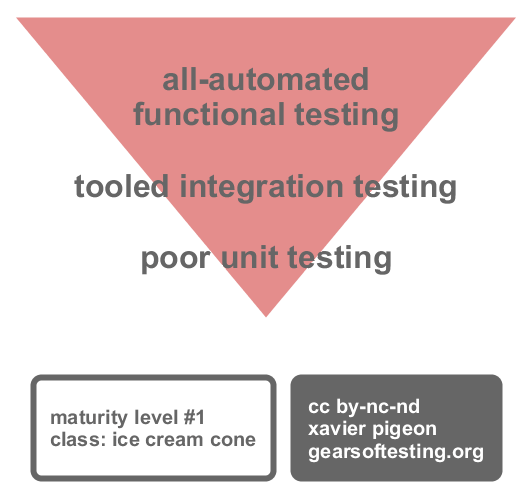
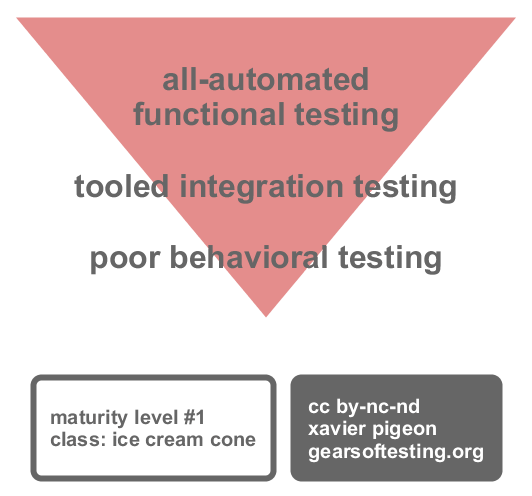
[Body of knowledge] Group unit testing and business acceptance testing in behavioral tests.

Changed region(s): [[0.1504, 0.4839, 0.8421, 0.5746]]

diff --git a/legacy-tests.html b/legacy-tests.html
@@ -58,7 +58,7 @@
 
 </section>
 
-<section class="engine"><a href="https://mobiri.se/b">how to create a site</a></section><section class="mbr-section content4 cid-qZnWIS0ri7" id="content4-1m">
+<section class="engine"><a href="https://mobiri.se/l">free web templates</a></section><section class="mbr-section content4 cid-qZnWIS0ri7" id="content4-1m">
 
     
 
@@ -142,7 +142,7 @@
 
     <figure class="mbr-figure container">
             <div class="image-block" style="width: 80%;">
-                <img src="assets/images/maturity-levels-of-testing-2374x2004.png" width="1400" alt="" title="">
+                <img src="assets/images/maturity-levels-of-testing-1776x1499.png" width="1400" alt="Maturity levels of testing" title="">
                 
             </div>
     </figure>
@@ -153,7 +153,7 @@
     
 
     <div class="container">
-        <div><!-- Filter --><div class="mbr-gallery-filter container gallery-filter-active"><ul buttons="0"><li class="mbr-gallery-filter-all"><a class="btn btn-md btn-primary-outline active display-7" href="">All</a></li></ul></div><!-- Gallery --><div class="mbr-gallery-row"><div class="mbr-gallery-layout-default"><div><div><div class="mbr-gallery-item mbr-gallery-item--p2" data-video-url="false" data-tags="Anti-patterns"><div href="#lb-gallery2-1k" data-slide-to="0" data-toggle="modal"><img src="assets/images/level-0-ice-cream-cone-532x496-532x496.png" alt="Maturity level #0: ice cream cone" title="Maturity level #0: ice cream cone"><span class="icon-focus"></span></div></div><div class="mbr-gallery-item mbr-gallery-item--p2" data-video-url="false" data-tags="Anti-patterns"><div href="#lb-gallery2-1k" data-slide-to="1" data-toggle="modal"><img src="assets/images/level-1-ice-cream-cone-532x496-532x496.png" alt="Maturity level #1: ice cream cone" title="Maturity level #1: ice cream cone"><span class="icon-focus"></span></div></div><div class="mbr-gallery-item mbr-gallery-item--p2" data-video-url="false" data-tags="Anti-patterns"><div href="#lb-gallery2-1k" data-slide-to="2" data-toggle="modal"><img src="assets/images/level-1-sand-timer-532x494-532x494.png" alt="Maturity level #1: sand timer" title="Maturity level #1: sand timer"><span class="icon-focus"></span></div></div><div class="mbr-gallery-item mbr-gallery-item--p2" data-video-url="false" data-tags="Anti-patterns"><div href="#lb-gallery2-1k" data-slide-to="3" data-toggle="modal"><img src="assets/images/level-1-tennis-court-534x494-534x494.png" alt="Maturity level #1: tennis court" title="Maturity level #1: tennis court"><span class="icon-focus"></span></div></div><div class="mbr-gallery-item mbr-gallery-item--p2" data-video-url="false" data-tags="Patterns"><div href="#lb-gallery2-1k" data-slide-to="4" data-toggle="modal"><img src="assets/images/level-2-pyramid-532x494-532x494.png" alt="Maturity level #2: pyramid" title="Maturity level #2: pyramid"><span class="icon-focus"></span></div></div><div class="mbr-gallery-item mbr-gallery-item--p2" data-video-url="false" data-tags="Patterns"><div href="#lb-gallery2-1k" data-slide-to="5" data-toggle="modal"><img src="assets/images/level-3-pyramid-632x546-632x546.png" alt="Maturity level #3: pyramid" title="Maturity level #3: pyramid"><span class="icon-focus"></span></div></div></div></div><div class="clearfix"></div></div></div><!-- Lightbox --><div data-app-prevent-settings="" class="mbr-slider modal fade carousel slide" tabindex="-1" data-keyboard="true" data-interval="false" id="lb-gallery2-1k"><div class="modal-dialog"><div class="modal-content"><div class="modal-body"><div class="carousel-inner"><div class="carousel-item"><img src="assets/images/level-0-ice-cream-cone-532x496.png" alt="Maturity level #0: ice cream cone" title="Maturity level #0: ice cream cone"></div><div class="carousel-item"><img src="assets/images/level-1-ice-cream-cone-532x496.png" alt="Maturity level #1: ice cream cone" title="Maturity level #1: ice cream cone"></div><div class="carousel-item"><img src="assets/images/level-1-sand-timer-532x494.png" alt="Maturity level #1: sand timer" title="Maturity level #1: sand timer"></div><div class="carousel-item"><img src="assets/images/level-1-tennis-court-534x494.png" alt="Maturity level #1: tennis court" title="Maturity level #1: tennis court"></div><div class="carousel-item"><img src="assets/images/level-2-pyramid-532x494.png" alt="Maturity level #2: pyramid" title="Maturity level #2: pyramid"></div><div class="carousel-item active"><img src="assets/images/level-3-pyramid-632x546.png" alt="Maturity level #3: pyramid" title="Maturity level #3: pyramid"></div></div><a class="carousel-control carousel-control-prev" role="button" data-slide="prev" href="#lb-gallery2-1k"><span class="mbri-left mbr-iconfont" aria-hidden="true"></span><span class="sr-only">Previous</span></a><a class="carousel-control carousel-control-next" role="button" data-slide="next" href="#lb-gallery2-1k"><span class="mbri-right mbr-iconfont" aria-hidden="true"></span><span class="sr-only">Next</span></a><a class="close" href="#" role="button" data-dismiss="modal"><span class="sr-only">Close</span></a></div></div></div></div></div>
+        <div><!-- Filter --><div class="mbr-gallery-filter container gallery-filter-active"><ul buttons="0"><li class="mbr-gallery-filter-all"><a class="btn btn-md btn-primary-outline active display-7" href="">All</a></li></ul></div><!-- Gallery --><div class="mbr-gallery-row"><div class="mbr-gallery-layout-default"><div><div><div class="mbr-gallery-item mbr-gallery-item--p2" data-video-url="false" data-tags="Anti-patterns"><div href="#lb-gallery2-1k" data-slide-to="0" data-toggle="modal"><img src="assets/images/level-0-ice-cream-cone-532x496-532x496.png" alt="Maturity level #0: ice cream cone" title="Maturity level #0: ice cream cone"><span class="icon-focus"></span></div></div><div class="mbr-gallery-item mbr-gallery-item--p2" data-video-url="false" data-tags="Anti-patterns"><div href="#lb-gallery2-1k" data-slide-to="1" data-toggle="modal"><img src="assets/images/level-1-ice-cream-cone-532x496-532x496.png" alt="Maturity level #1: ice cream cone" title="Maturity level #1: ice cream cone"><span class="icon-focus"></span></div></div><div class="mbr-gallery-item mbr-gallery-item--p2" data-video-url="false" data-tags="Anti-patterns"><div href="#lb-gallery2-1k" data-slide-to="2" data-toggle="modal"><img src="assets/images/level-1-sand-timer-532x494-532x494.png" alt="Maturity level #1: sand timer" title="Maturity level #1: sand timer"><span class="icon-focus"></span></div></div><div class="mbr-gallery-item mbr-gallery-item--p2" data-video-url="false" data-tags="Anti-patterns"><div href="#lb-gallery2-1k" data-slide-to="3" data-toggle="modal"><img src="assets/images/level-1-tennis-court-534x496-534x496.png" alt="Maturity level #1: tennis court" title="Maturity level #1: tennis court"><span class="icon-focus"></span></div></div><div class="mbr-gallery-item mbr-gallery-item--p2" data-video-url="false" data-tags="Patterns"><div href="#lb-gallery2-1k" data-slide-to="4" data-toggle="modal"><img src="assets/images/level-2-pyramid-532x494-532x494.png" alt="Maturity level #2: pyramid" title="Maturity level #2: pyramid"><span class="icon-focus"></span></div></div><div class="mbr-gallery-item mbr-gallery-item--p2" data-video-url="false" data-tags="Patterns"><div href="#lb-gallery2-1k" data-slide-to="5" data-toggle="modal"><img src="assets/images/level-3-pyramid-632x546-632x546.png" alt="Maturity level #3: pyramid" title="Maturity level #3: pyramid"><span class="icon-focus"></span></div></div></div></div><div class="clearfix"></div></div></div><!-- Lightbox --><div data-app-prevent-settings="" class="mbr-slider modal fade carousel slide" tabindex="-1" data-keyboard="true" data-interval="false" id="lb-gallery2-1k"><div class="modal-dialog"><div class="modal-content"><div class="modal-body"><div class="carousel-inner"><div class="carousel-item"><img src="assets/images/level-0-ice-cream-cone-532x496.png" alt="Maturity level #0: ice cream cone" title="Maturity level #0: ice cream cone"></div><div class="carousel-item"><img src="assets/images/level-1-ice-cream-cone-532x496.png" alt="Maturity level #1: ice cream cone" title="Maturity level #1: ice cream cone"></div><div class="carousel-item"><img src="assets/images/level-1-sand-timer-532x494.png" alt="Maturity level #1: sand timer" title="Maturity level #1: sand timer"></div><div class="carousel-item"><img src="assets/images/level-1-tennis-court-534x496.png" alt="Maturity level #1: tennis court" title="Maturity level #1: tennis court"></div><div class="carousel-item"><img src="assets/images/level-2-pyramid-532x494.png" alt="Maturity level #2: pyramid" title="Maturity level #2: pyramid"></div><div class="carousel-item active"><img src="assets/images/level-3-pyramid-632x546.png" alt="Maturity level #3: pyramid" title="Maturity level #3: pyramid"></div></div><a class="carousel-control carousel-control-prev" role="button" data-slide="prev" href="#lb-gallery2-1k"><span class="mbri-left mbr-iconfont" aria-hidden="true"></span><span class="sr-only">Previous</span></a><a class="carousel-control carousel-control-next" role="button" data-slide="next" href="#lb-gallery2-1k"><span class="mbri-right mbr-iconfont" aria-hidden="true"></span><span class="sr-only">Next</span></a><a class="close" href="#" role="button" data-dismiss="modal"><span class="sr-only">Close</span></a></div></div></div></div></div>
     </div>
 
 </section>
@@ -286,7 +286,7 @@
 
     <figure class="mbr-figure">
             <div class="image-block" style="width: 80%;">
-                <img src="assets/images/test-correcting-1-1776x899.png" width="1400" alt="Mobirise" title="">
+                <img src="assets/images/test-correcting-2558x1295.png" width="1400" alt="Test correcting from level 0 to level 3: white box vs black box" title="">
                 
             </div>
     </figure>

diff --git a/tempo-of-testing.html b/tempo-of-testing.html
@@ -58,7 +58,7 @@
 
 </section>
 
-<section class="engine"><a href="https://mobiri.se/u">bootstrap website templates</a></section><section class="mbr-section content4 cid-qZXkHcxAkz" id="content4-2i">
+<section class="engine"><a href="https://mobiri.se/u">bootstrap html templates</a></section><section class="mbr-section content4 cid-qZXkHcxAkz" id="content4-2i">
 
     
 
@@ -195,7 +195,7 @@
     
     <div class="container content-slider">
         <div class="content-slider-wrap">
-            <div><div class="mbr-slider slide carousel" data-pause="true" data-keyboard="false" data-ride="carousel" data-interval="4000"><ol class="carousel-indicators"><li data-app-prevent-settings="" data-target="#slider2-2n" data-slide-to="0"></li><li data-app-prevent-settings="" data-target="#slider2-2n" class=" active" data-slide-to="1"></li></ol><div class="carousel-inner" role="listbox"><div class="carousel-item slider-fullscreen-image" data-bg-video-slide="false" style="background-image: url(assets/images/tdd-global-cycle-2000x1174.png);"><div class="container container-slide"><div class="image_wrapper"><img src="assets/images/tdd-global-cycle-2000x1174.png"><div class="carousel-caption justify-content-center"><div class="col-10 align-center"></div></div></div></div></div><div class="carousel-item slider-fullscreen-image active" data-bg-video-slide="false" style="background-image: url(assets/images/defect-based-testing-2000x1174.png);"><div class="container container-slide"><div class="image_wrapper"><img src="assets/images/defect-based-testing-2000x1174.png"><div class="carousel-caption justify-content-center"><div class="col-10 align-center"></div></div></div></div></div></div><a data-app-prevent-settings="" class="carousel-control carousel-control-prev" role="button" data-slide="prev" href="#slider2-2n"><span aria-hidden="true" class="mbri-left mbr-iconfont"></span><span class="sr-only">Previous</span></a><a data-app-prevent-settings="" class="carousel-control carousel-control-next" role="button" data-slide="next" href="#slider2-2n"><span aria-hidden="true" class="mbri-right mbr-iconfont"></span><span class="sr-only">Next</span></a></div></div> 
+            <div><div class="mbr-slider slide carousel" data-pause="true" data-keyboard="false" data-ride="false" data-interval="false"><ol class="carousel-indicators"><li data-app-prevent-settings="" data-target="#slider2-2n" class=" active" data-slide-to="0"></li><li data-app-prevent-settings="" data-target="#slider2-2n" data-slide-to="1"></li></ol><div class="carousel-inner" role="listbox"><div class="carousel-item slider-fullscreen-image active" data-bg-video-slide="false" style="background-image: url(assets/images/tdd-global-cycle-2000x1174.png);"><div class="container container-slide"><div class="image_wrapper"><img src="assets/images/tdd-global-cycle-2000x1174.png"><div class="carousel-caption justify-content-center"><div class="col-10 align-center"></div></div></div></div></div><div class="carousel-item slider-fullscreen-image" data-bg-video-slide="false" style="background-image: url(assets/images/defect-based-testing-2000x1174.png);"><div class="container container-slide"><div class="image_wrapper"><img src="assets/images/defect-based-testing-2000x1174.png"><div class="carousel-caption justify-content-center"><div class="col-10 align-center"></div></div></div></div></div></div><a data-app-prevent-settings="" class="carousel-control carousel-control-prev" role="button" data-slide="prev" href="#slider2-2n"><span aria-hidden="true" class="mbri-left mbr-iconfont"></span><span class="sr-only">Previous</span></a><a data-app-prevent-settings="" class="carousel-control carousel-control-next" role="button" data-slide="next" href="#slider2-2n"><span aria-hidden="true" class="mbri-right mbr-iconfont"></span><span class="sr-only">Next</span></a></div></div> 
         </div>
     </div>
 </section>

diff --git a/test-typology.html b/test-typology.html
@@ -57,13 +57,13 @@
 
 </section>
 
-<section class="engine"><a href="https://mobiri.se/f">simple web creator</a></section><section class="cid-qUtWlstmVm" id="image2-x">
+<section class="engine"><a href="https://mobiri.se/g">build your own website for free</a></section><section class="cid-qUtWlstmVm" id="image2-x">
 
     
 
     <figure class="mbr-figure">
         <div class="image-block" style="width: 100%;">
-            <img src="assets/images/test-typology-1883x1393.png" alt="Test Typology" title="">
+            <img src="assets/images/test-typology-1-2558x2157.png" alt="Test Typology" title="">
             
         </div>
     </figure>

diff --git a/method.html b/method.html
@@ -66,7 +66,7 @@
     </nav>
 </section>
 
-<section class="engine"><a href="https://mobiri.se/k">develop your own website</a></section><section class="carousel slide cid-qZo5mlC2MR" data-interval="false" id="slider1-1o">
+<section class="engine"><a href="https://mobiri.se/s">bootstrap theme</a></section><section class="carousel slide cid-qZo5mlC2MR" data-interval="false" id="slider1-1o">
 
     
 

diff --git a/index.html b/index.html
@@ -60,7 +60,7 @@
     </div>
 </section>
 
-<section class="engine"><a href="https://mobiri.se/h">create your own web page</a></section><section class="features8 cid-qUtNrvByr9 mbr-parallax-background" id="features8-u">
+<section class="engine"><a href="https://mobiri.se/v">html templates</a></section><section class="features8 cid-qUtNrvByr9 mbr-parallax-background" id="features8-u">
 
     
 
